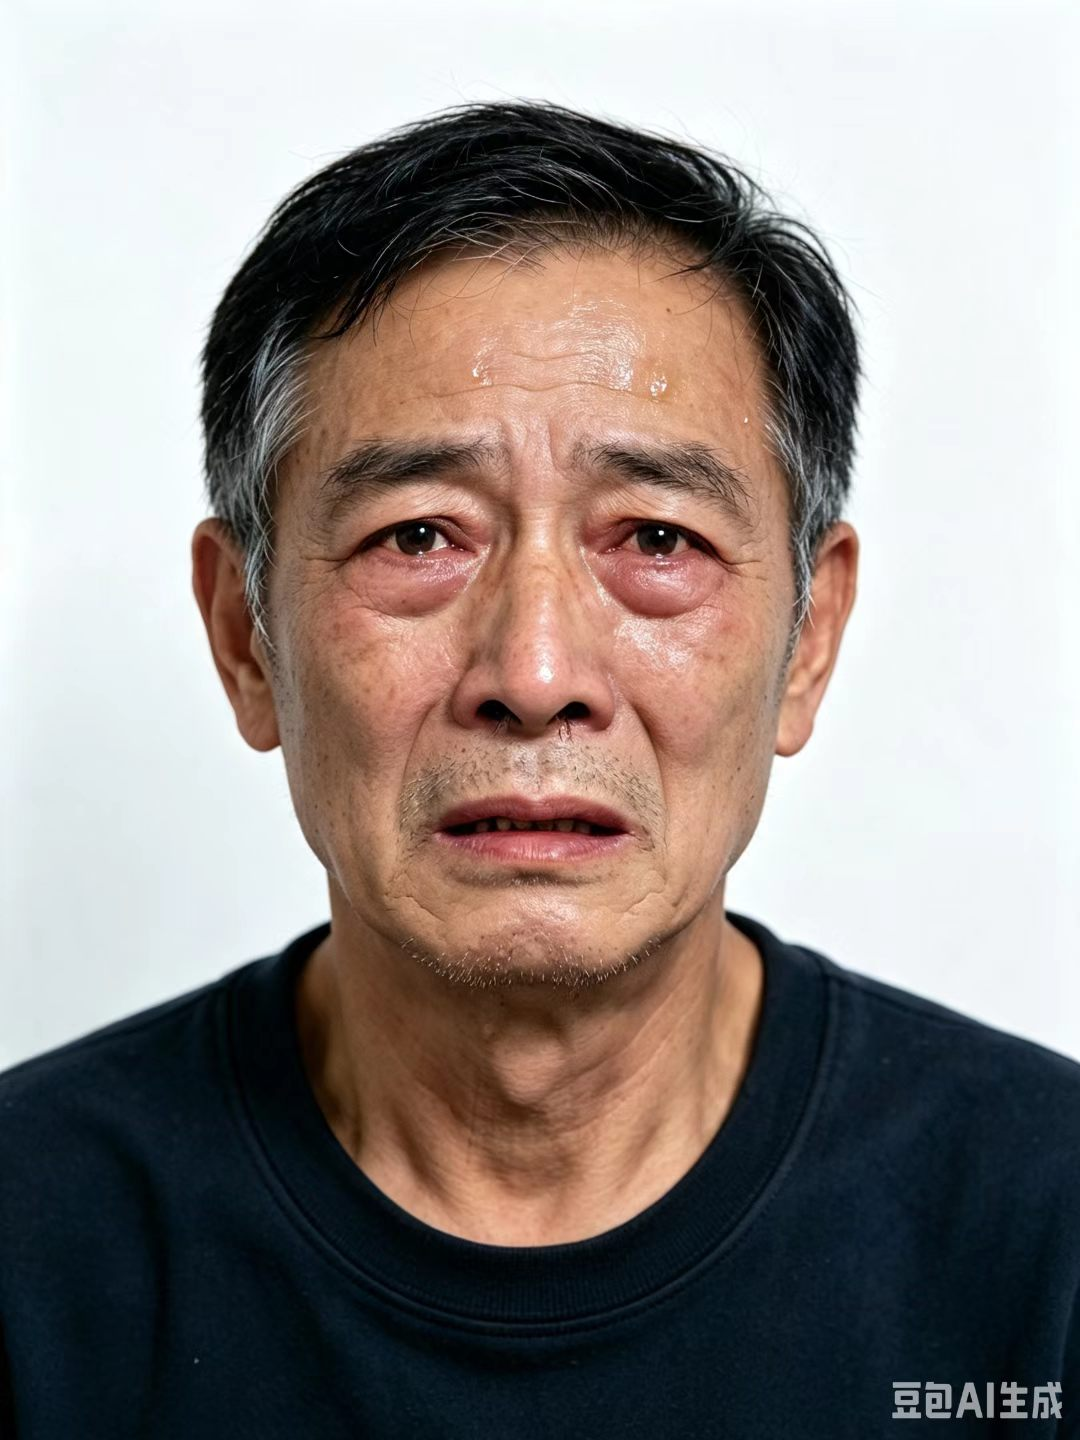
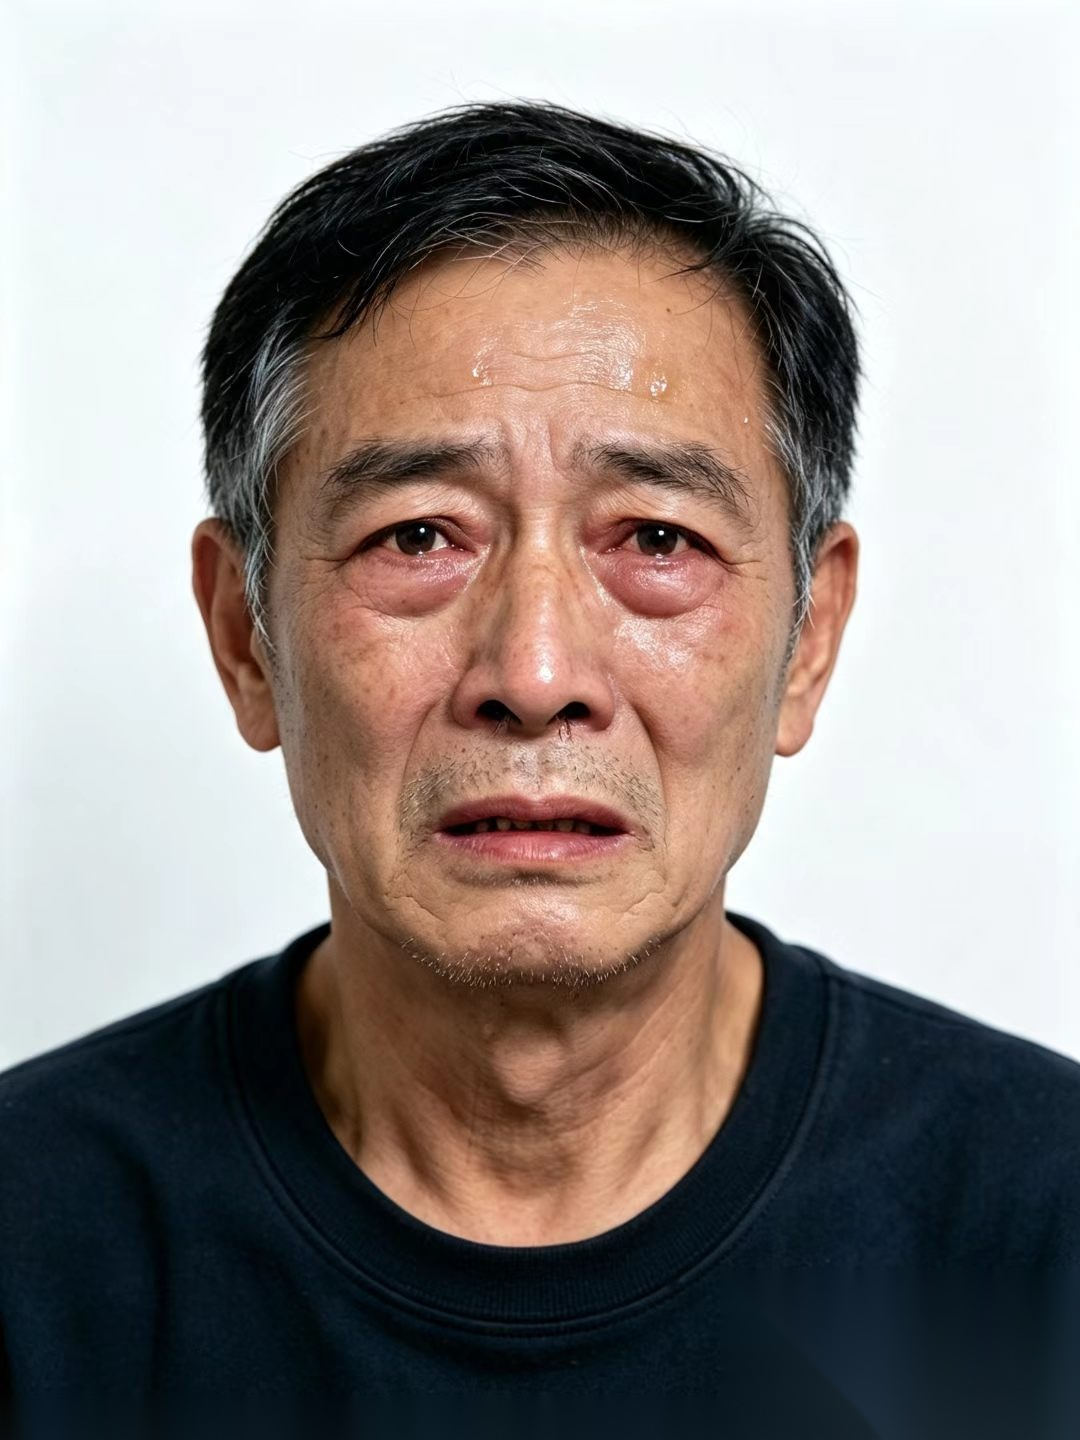
report: hero contain完整显示不裁切; bingli1-4去水印(inpaint Telea)

Changed region(s): [[0.7944, 0.9062, 1.0, 1.0], [0.7639, 0.9375, 0.7944, 0.9688]]

diff --git a/report.html b/report.html
@@ -612,21 +612,26 @@
         .modal-hero {
             position: relative;
             width: 100%;
-            height: 38vh;
-            min-height: 280px;
-            max-height: 460px;
-            background: #000;
-            overflow: hidden;
+            /* 用 as-ratio 思想：给足高度空间让横竖版扫描件完整展示，配合 contain 不会裁切 */
+            height: 44vh;
+            min-height: 320px;
+            max-height: 540px;
+            background:
+              radial-gradient(ellipse at center, #1a2127 0%, #05070a 78%);
+            overflow: visible;
             flex-shrink: 0;
+            border-bottom: 1px solid rgba(255,255,255,0.04);
         }
         .modal-hero .hero-img {
             width: 100%;
             height: 100%;
-            object-fit: cover;
+            /* contain：完整显示整张图，不裁切任何一角，上下左右有留白也 OK（黑底像阅片器） */
+            object-fit: contain;
+            object-position: center center;
             display: block;
             opacity: 0;
-            transform: scale(1.12);
-            transition: opacity 0.16s ease, transform 0.32s ease;
+            transform: scale(1.04);
+            transition: opacity 0.2s ease, transform 0.38s ease;
         }
         .modal-hero .hero-img.show {
             opacity: 1;
@@ -634,13 +639,13 @@
         }
         /* 第4条刷新后的惊吓跳脸：突然闪现 + 极快放大 + 轻微抖动 */
         .modal-hero .hero-img.jump-scare {
-            animation: jumpScare 0.7s cubic-bezier(0.2, 0.9, 0.3, 1.1) both;
+            animation: jumpScare 0.74s cubic-bezier(0.18, 0.92, 0.28, 1.12) both;
         }
         @keyframes jumpScare {
-            0%   { opacity: 0; transform: scale(0.55); filter: brightness(2.2) blur(2px); }
-            18%  { opacity: 1; transform: scale(1.22); filter: brightness(1.6) blur(0.2px); }
-            45%  { opacity: 1; transform: scale(1);    filter: brightness(1.1) blur(0); }
-            68%  { opacity: 1; transform: scale(1.03) translateX(-2px); filter: brightness(1) contrast(1.1); }
+            0%   { opacity: 0; transform: scale(0.42); filter: brightness(2.6) blur(2.2px); }
+            16%  { opacity: 1; transform: scale(1.26); filter: brightness(1.6) blur(0.3px); }
+            42%  { opacity: 1; transform: scale(1);    filter: brightness(1.12) blur(0); }
+            66%  { opacity: 1; transform: scale(1.035) translateX(-2px); filter: brightness(1) contrast(1.12); }
             100% { opacity: 1; transform: scale(1);    filter: brightness(1); }
         }
         /* 刷新按钮失败状态（真实感） */
